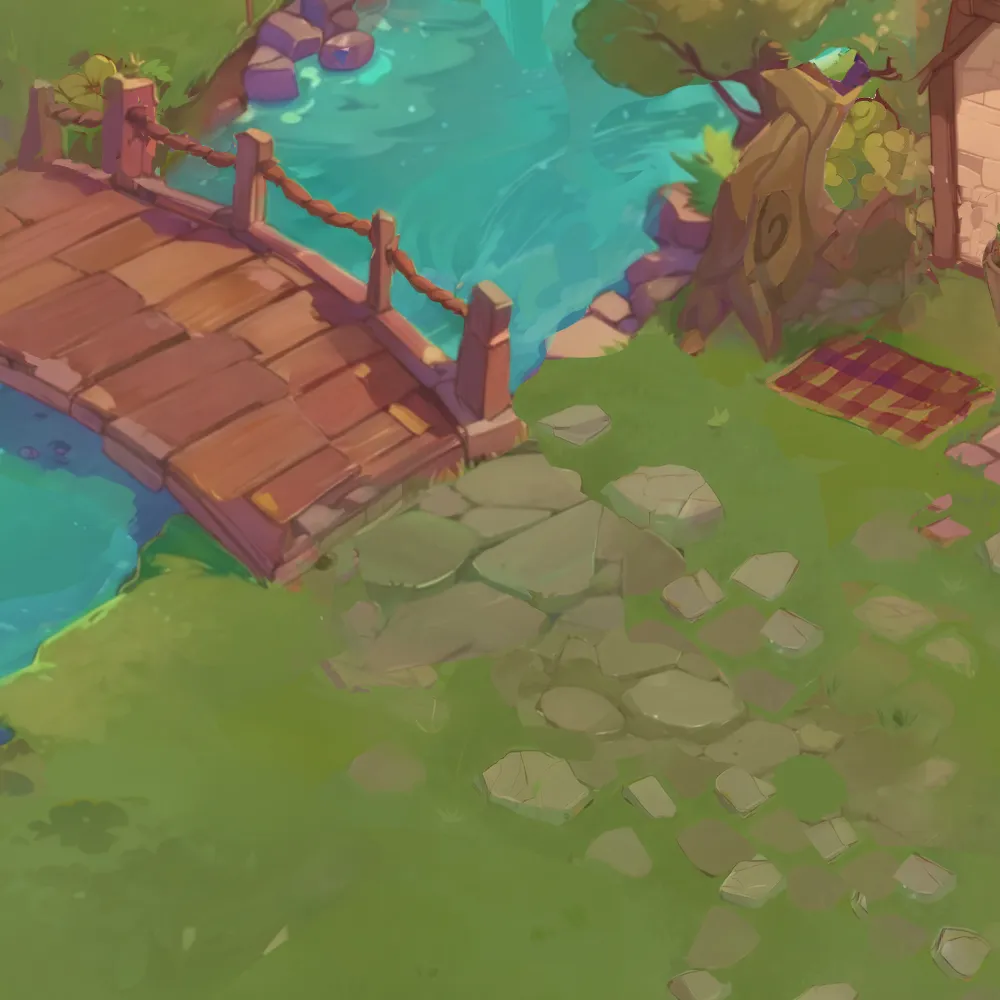
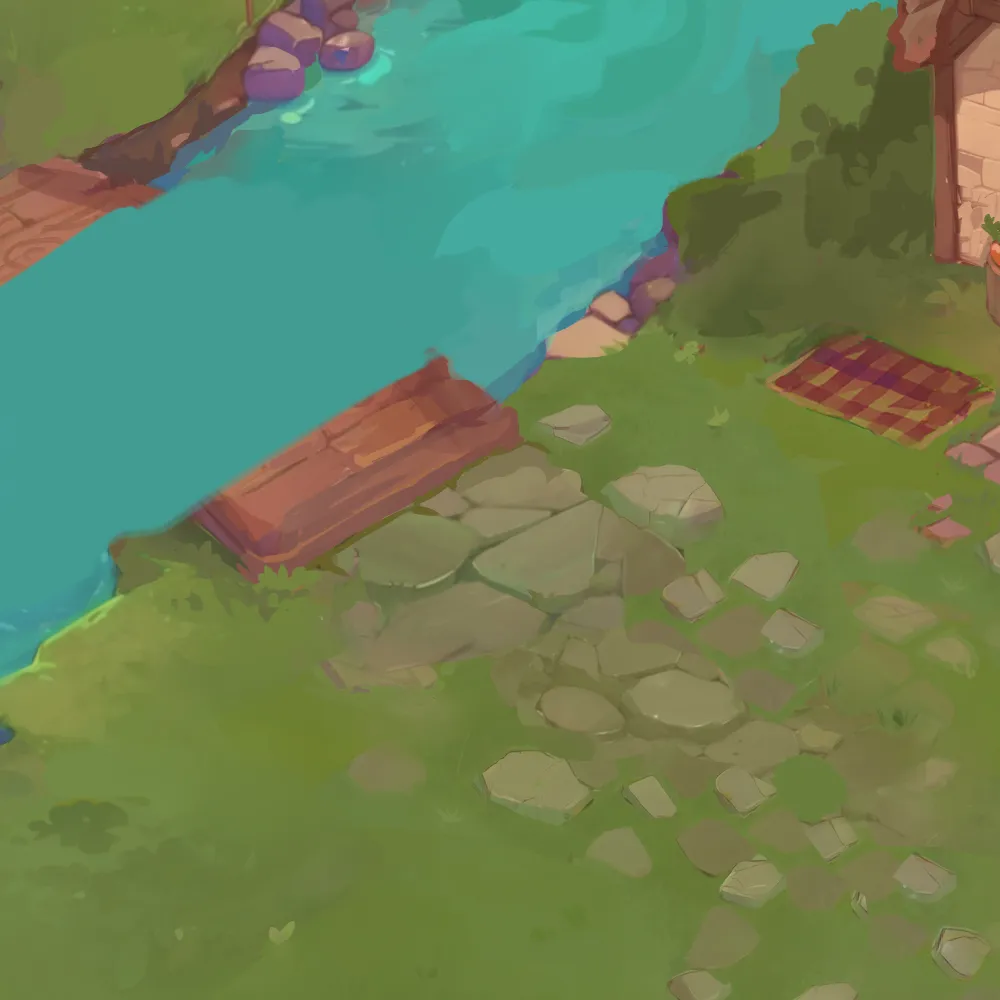
add new static entities

diff --git a/modules/ENTITIES_STATIC.ts b/modules/ENTITIES_STATIC.ts
@@ -11,7 +11,12 @@ class EntitiesStatic {
         },
         "low-tree": { POS: { x: 6450, y: 7620 } },
         "low-forest": { POS: { x: 7500, y: 9400 } },
-        "bridge-fence": { POS: { x: 7049, y: 7594 } },
+        bridge: { POS: { x: 7142, y: 7074 } },
+        "bridge-fence": { POS: { x: 7047, y: 7578 } },
+        "bridge-fence-top": { POS: { x: 7272, y: 7176 } },
+        "bunny-tree": { POS: { x: 7772, y: 7338 } },
+        "river-low-tree": { POS: { x: 6775, y: 7915 } },
+        "tree-low-cave": { POS: { x: 7000, y: 9220 } },
     }
     async init() {
         for (const key in this.collection) {
